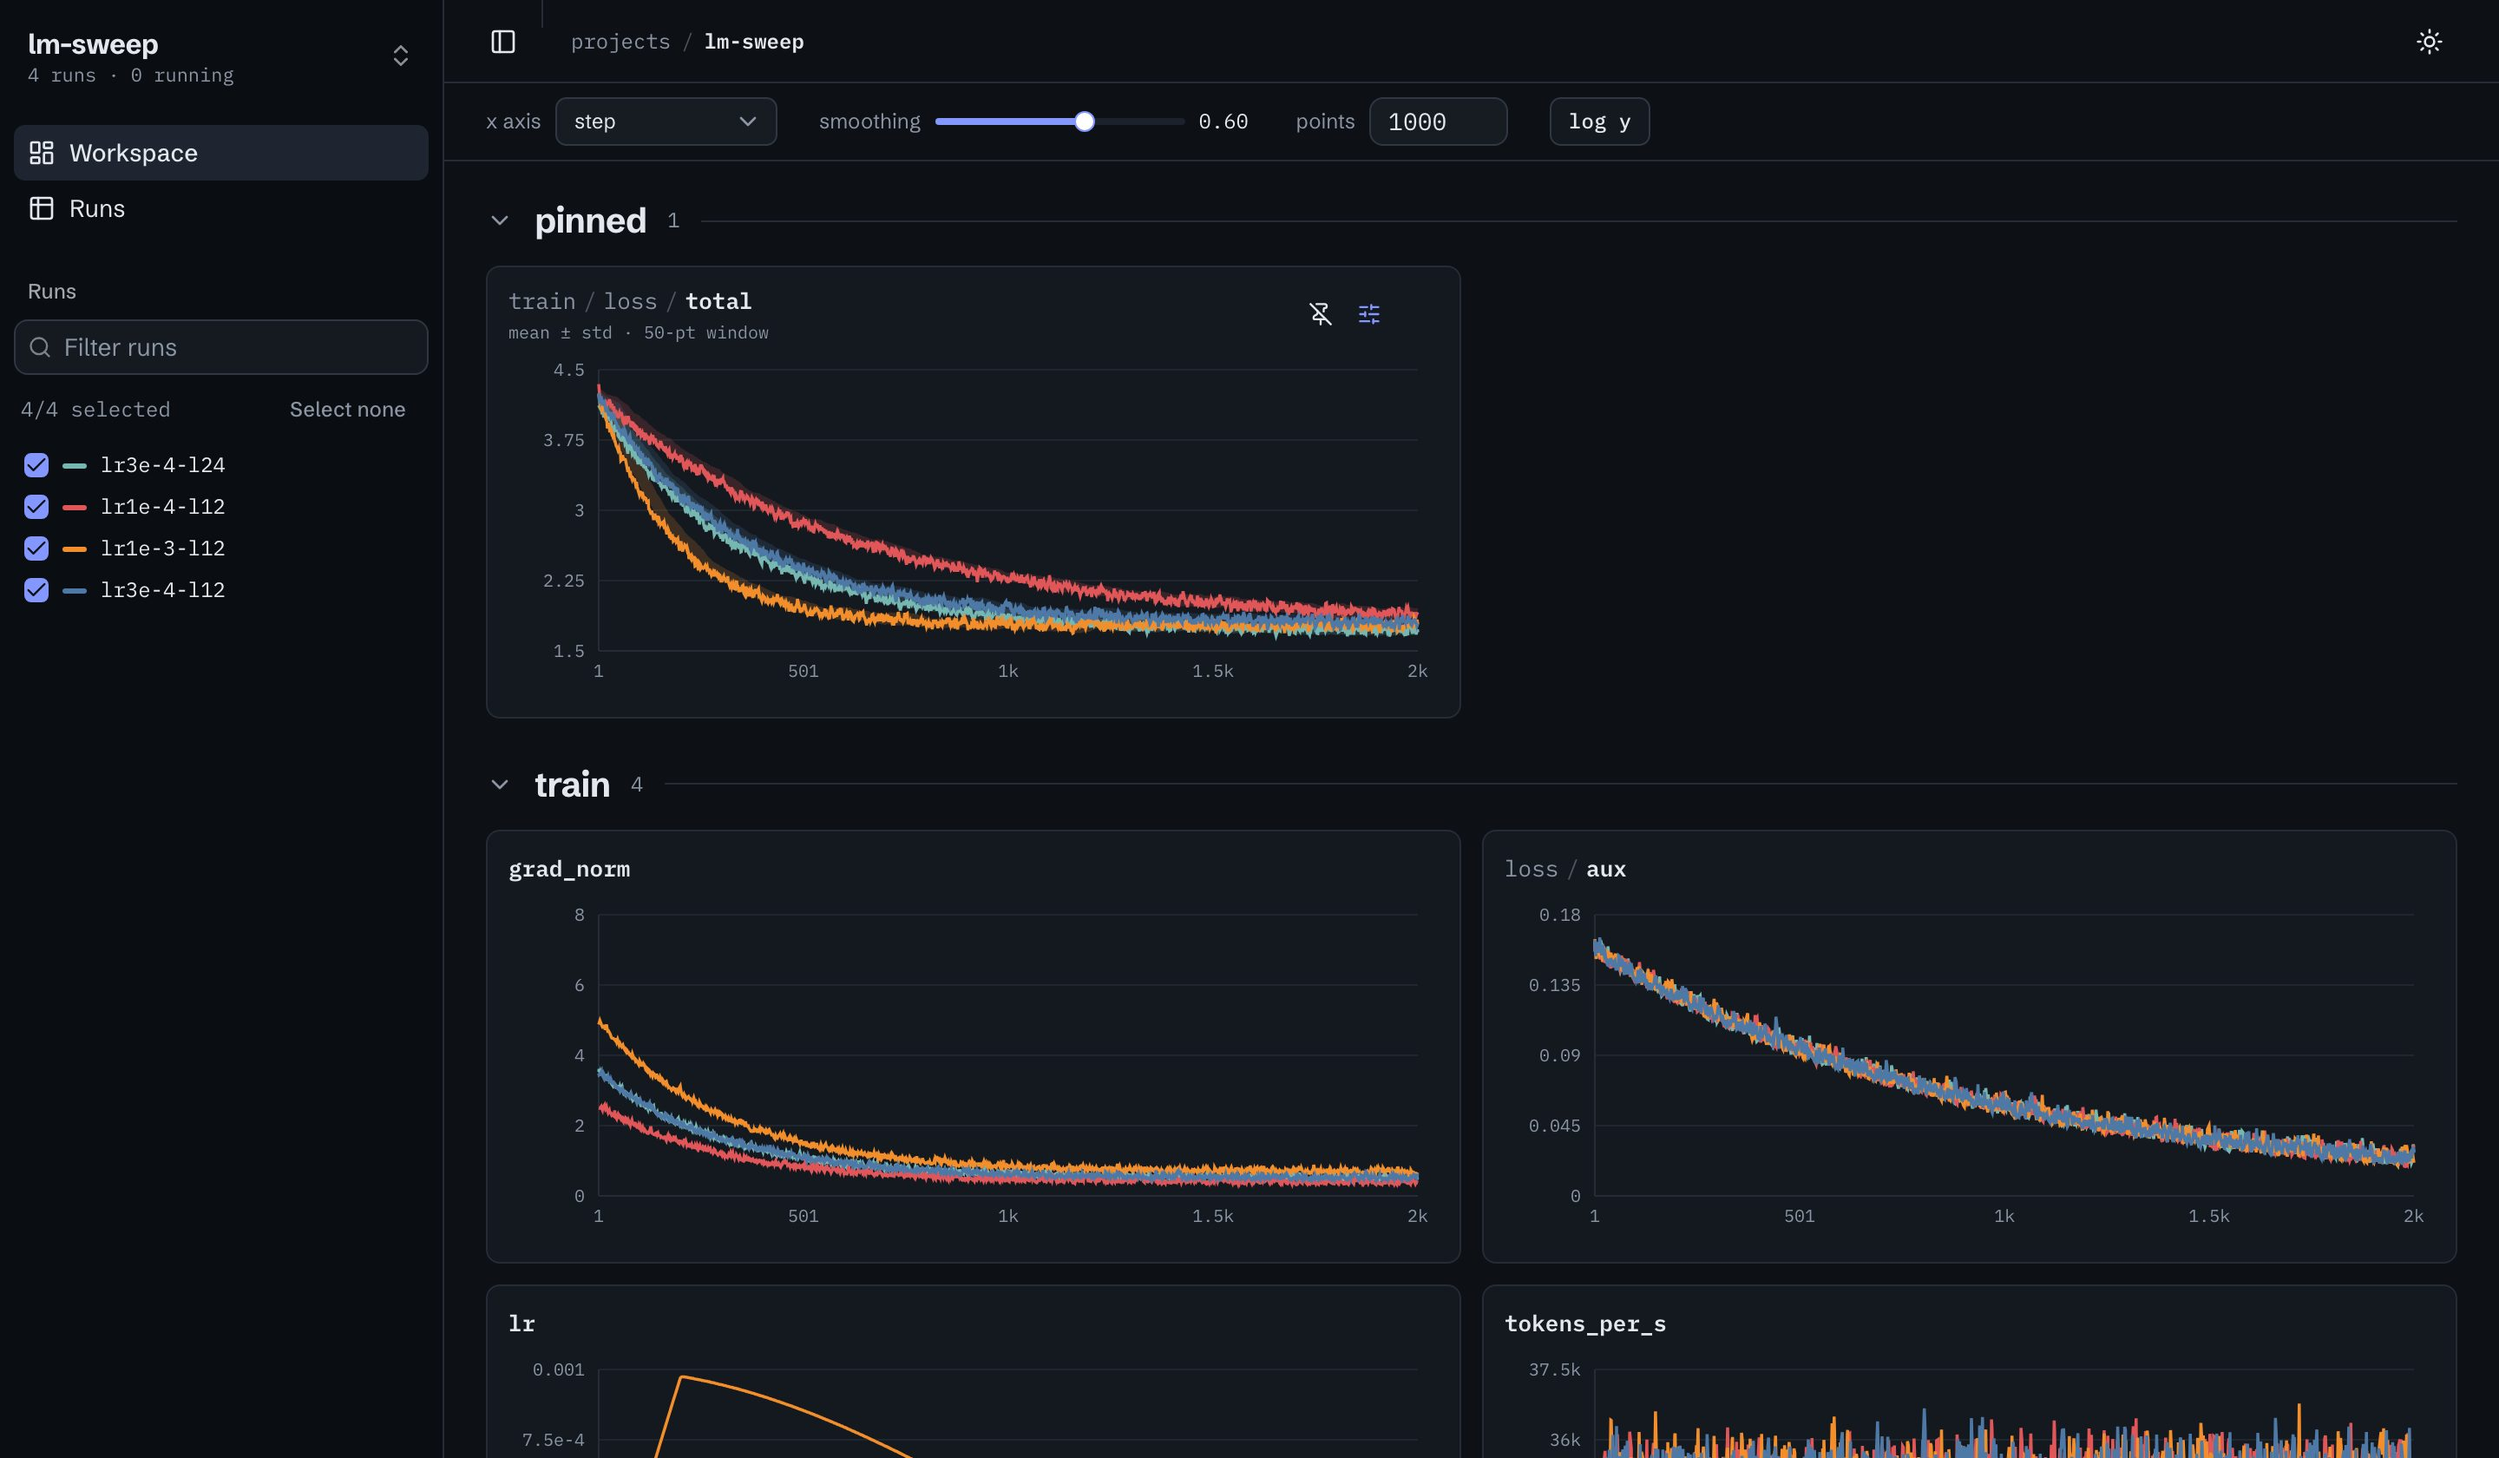
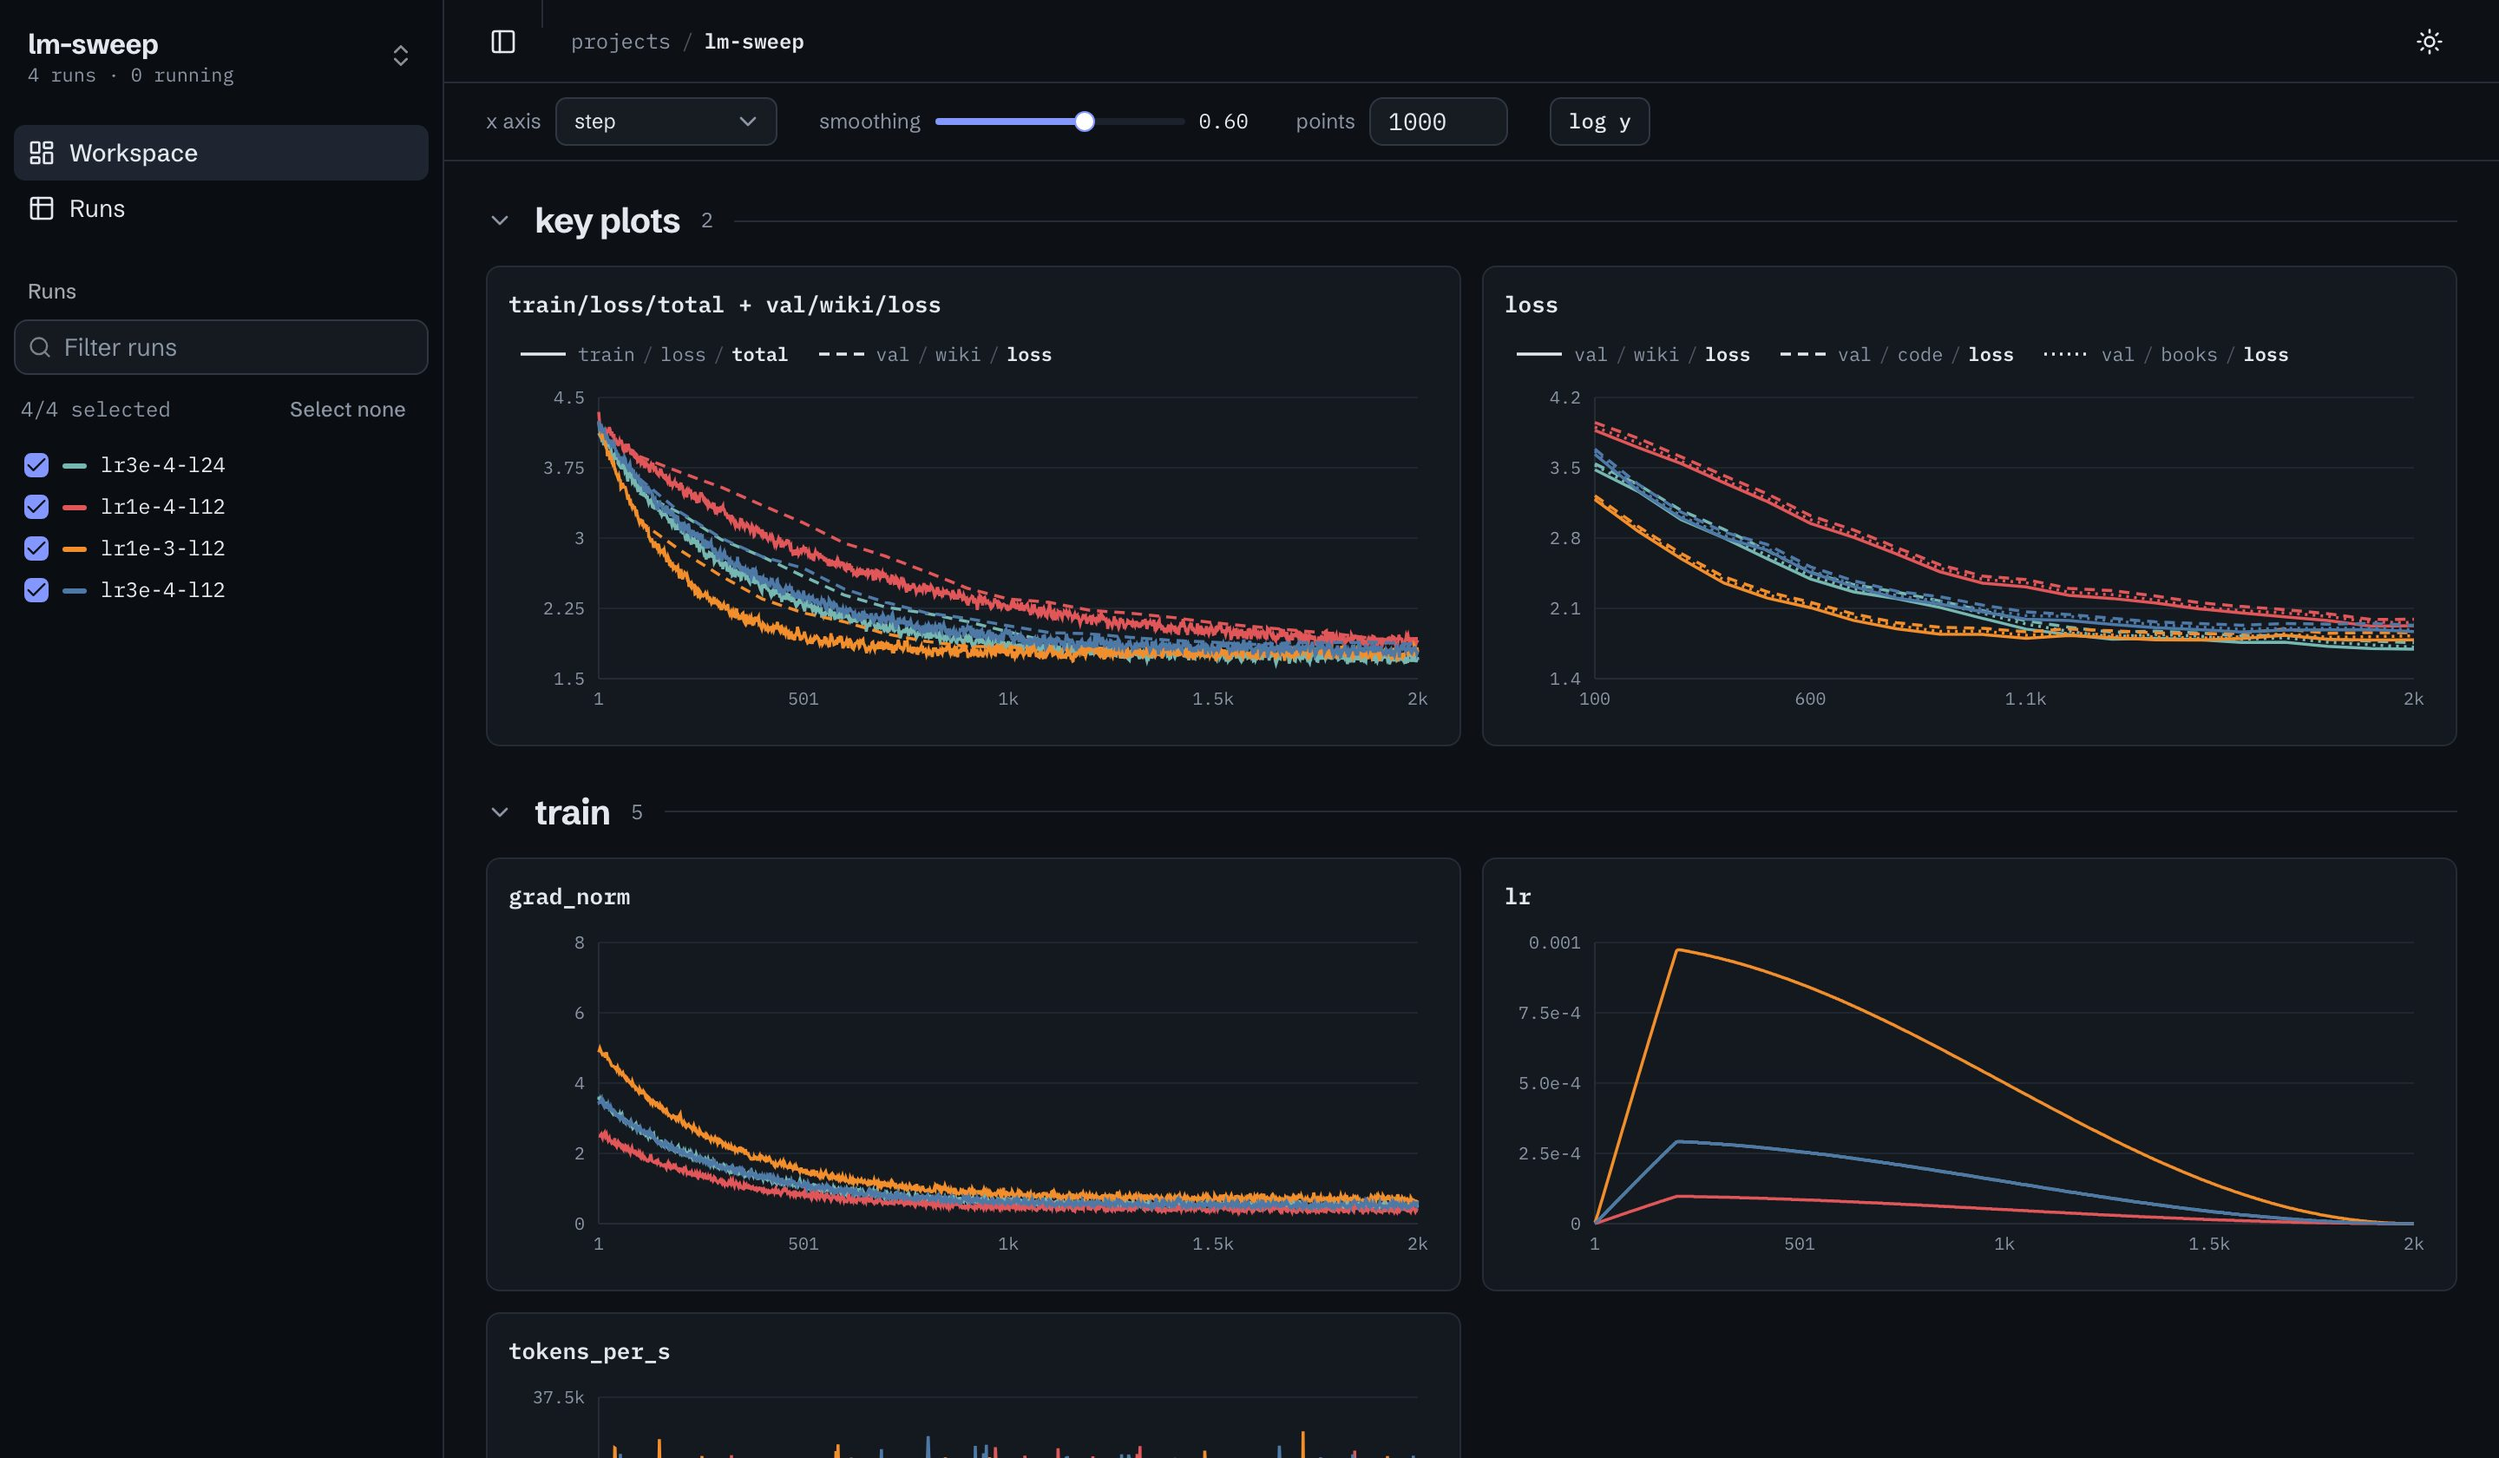
docs: key plots in README, site, screenshots and changelog

diff --git a/docs/index.html b/docs/index.html
@@ -114,9 +114,9 @@
       <figure class="shot">
         <picture>
           <source srcset="assets/workspace-dark.jpg" media="(prefers-color-scheme: dark)" />
-          <img src="assets/workspace-light.jpg" width="1440" height="840" alt="The log-ui workspace: four runs of a learning-rate sweep, the pinned training loss with a mean ± std band, and grouped train charts" />
+          <img src="assets/workspace-light.jpg" width="1440" height="840" alt="The log-ui workspace: four runs of a learning-rate sweep, with training and validation loss overlaid in a key plot above the grouped train charts" />
         </picture>
-        <figcaption>A learning-rate sweep from <code>scripts/demo_store.py</code>: the training loss is pinned and shows a 50-point mean ± std band.</figcaption>
+        <figcaption>A learning-rate sweep from <code>scripts/demo_store.py</code>: key plots overlay training loss (solid) with validation loss (dashed), and compare the validation sets; colour is the run.</figcaption>
       </figure>
     </div>
 
@@ -126,7 +126,8 @@
         <div><dt>Every key, nested</dt><dd>Each logged key gets a chart, nested by its path in collapsible groups: <code>loss / train / xent</code> sits in a "train" box inside "loss".</dd></div>
         <div><dt>Smoothing, axes, budget</dt><dd>EMA smoothing, step, relative or wall-clock x, log y, and how many points each series draws.</dd></div>
         <div><dt>Spread bands</dt><dd>Mean ± std or min–max over a trailing window of N raw points. It never looks ahead.</dd></div>
-        <div><dt>Per-chart limits</dt><dd>Pin x and y ranges on any chart; expand any chart to full screen with a range brush.</dd></div>
+        <div><dt>Key plots</dt><dd>Overlay metrics on one y axis, <code>train/loss</code> with <code>val/loss</code>; any metric in any number of plots. Colour is the run, line style the metric.</dd></div>
+        <div><dt>Per-chart limits</dt><dd>Fix x and y ranges on any chart; expand any chart to full screen with a range brush.</dd></div>
         <div><dt>Runs that differ</dt><dd>The runs table shows only the config columns that vary across runs, so sweeps read at a glance.</dd></div>
         <div><dt>Views as plugins</dt><dd>Ladders, heatmaps and tables declared in Python for comparisons wandb needs custom panels for.</dd></div>
       </dl>

diff --git a/README.md b/README.md
@@ -65,11 +65,15 @@ container can do, by construction:
 - **Projects**: every trackio project in the store with its run count and last write.
 - **Workspace**: pick runs in the sidebar; every logged key gets a chart, nested by its path in collapsible
   groups (`loss/train/xent` sits in a "train" box inside "loss"; open/closed state is remembered). Global
-  smoothing (EMA), step / relative / wall-clock x-axis, log y, and a free-form point budget per series. Pin
-  charts to the top.
+  smoothing (EMA), step / relative / wall-clock x-axis, log y, and a free-form point budget per series.
+- **Key plots**: charts at the top that overlay several metrics on one y axis, e.g. `train/loss` with
+  `val/loss`. Add a metric from any chart's pin menu or a plot's **+** picker; a metric can be in any number of
+  key plots (A+B, A+C and A+D at once). Colour is the run; each metric gets its own line style (dash, marker,
+  thickness), assigned automatically and changeable from the plot's legend. Shown on the workspace and run pages.
 - **Per-chart settings**: a mean ± std or min–max band over a trailing window of N raw points (never looks
   ahead), and fixed x/y limits. Settings persist per project in the browser.
-- **Charts**: a synced cursor across charts, a tooltip on the chart under the mouse, and a full-screen view
+- **Charts**: a synced cursor across charts, a tooltip on the chart under the mouse (every line's nearest
+  logged value, so metrics logged at different steps still show), and a full-screen view
   with a range brush.
 - **Runs table**: status, steps, duration, the config columns that differ between runs, sorting, filtering
   and multi-select.

diff --git a/CHANGELOG.md b/CHANGELOG.md
@@ -5,6 +5,23 @@ and versions follow [Semantic Versioning](https://semver.org/).
 
 ## [Unreleased]
 
+### Added
+
+- Key plots replace pinned charts: charts at the top of the workspace and run page that overlay several metrics
+  on one y axis (e.g. `train/loss` with `val/loss`). A metric can be in any number of key plots (A+B, A+C,
+  A+D at once). Add metrics from any chart's pin menu or a plot's **+** picker; rename plots; remove metrics
+  or whole plots. Existing pins become single-metric key plots automatically.
+- Line styles for overlaid metrics while colour stays the run: 6 dash patterns, 4 sparse marker shapes and
+  3 thicknesses, assigned automatically (30 distinct before repeating) and changeable per metric from the
+  plot's legend.
+
+### Changed
+
+- Tooltips show every line's nearest logged value, marked with its step when not exactly under the cursor,
+  so metrics logged at different steps (or downsampled to different points) all appear. Steps in tooltips
+  are exact (`step 1,026`) instead of rounded.
+- A metric in a key plot stays in its group below (pinned charts used to move out of their group).
+
 ## [0.2.0] - 2026-10-04
 
 ### Added
